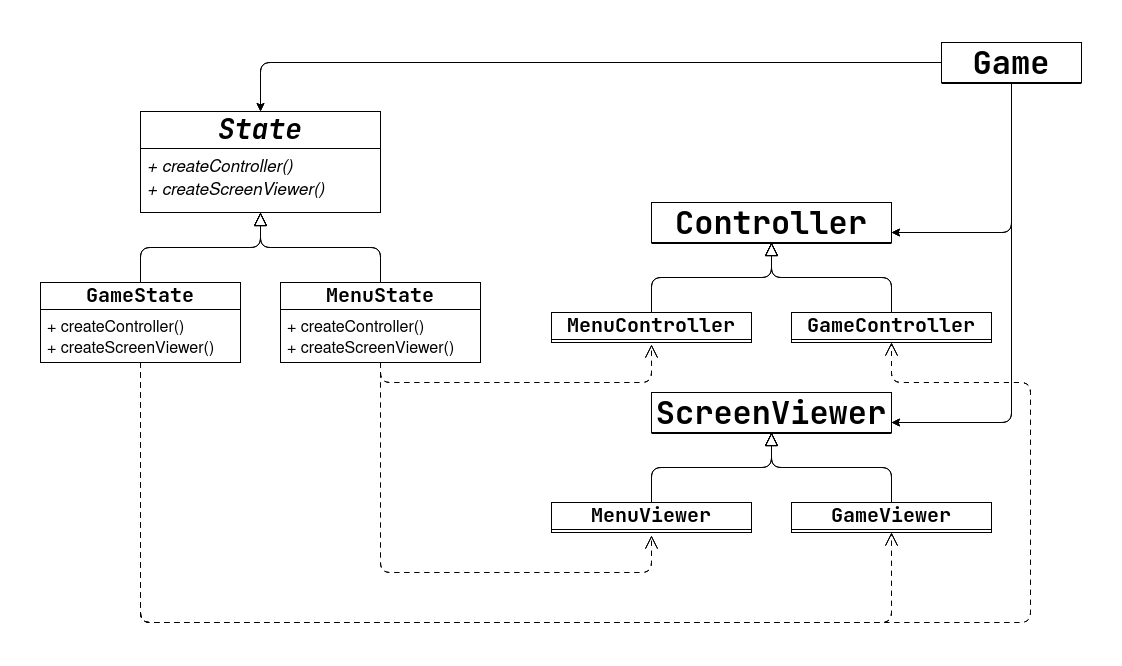
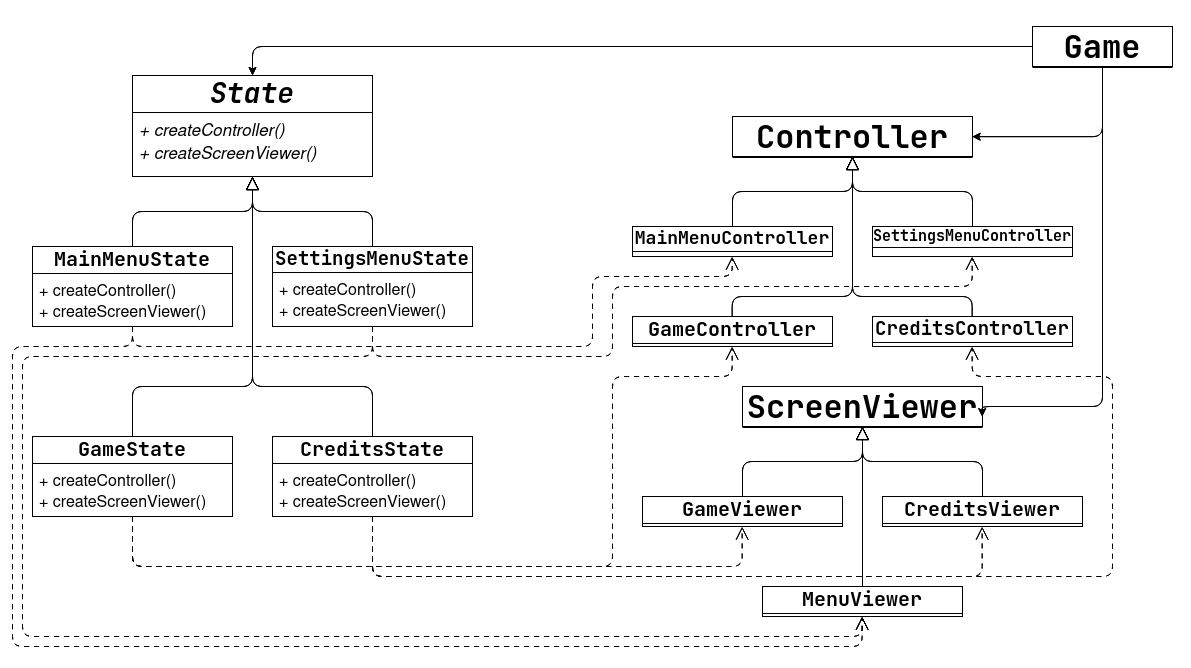
Updating the report

diff --git a/docs/README.md b/docs/README.md
@@ -6,7 +6,7 @@
 <img src="resources/mockups/logo.png"/>
 </p>
 
-2D platformer game where the main character tries to explore a futuristic world full of obstacles. There are multiple consecutive "levels" that blend through progressive scenery changes.
+Timeless Odyssey is a 2D platformer game where the main character tries to explore a futuristic world full of obstacles through the use of jumping and dashing mechanics, while also collecting stars to increase the score in search for a potential treasure. There are multiple consecutive "levels" with varying difficulty that blend through progressive scenery changes.
 
 ><p align="center">
 >This project was developed by Bruno Oliveira (up202208700@fe.up.pt), João Mendes (up202208783@fe.up.pt) and Rodrigo Coelho (up202205188@fe.up.pt) for LDTS 2023/24
@@ -14,31 +14,52 @@
 
 ## Table of Contents
 
+- [Controls](#controls)
 - [Implemented Features](#implemented-features)
-- [Planned Features](#planned-features)
+- [Notes About Features](#notes-about-features)
 - [General Structure](#general-structure)
 - [Code Design](#design)
+  - [Model-View-Controller](#code-structure)
+  - [Game Loop](#game-loop)
+  - [(Game) State Pattern](#multiple-game-states)
+  - [Abstract Factory Pattern](#the-behavior-of-the-game-states)
+  - [Adapter Pattern](#simplification-of-lanternas-interface)
+  - [(Player) State Pattern](#player-states)
+  - [Flyweight Pattern](#sprite-loading)
+- [Code Smells](#known-code-smells)
 - [Code Testing](#testing)
+
+## CONTROLS
+
+`>`: Moves the player to the right.
+
+`<`: Moves the player to the left.
+
+`SPACE`: Makes the player jump.
+
+`X`: Makes the player dash.
+
+`ESC`: Press ESC to quit or return to the main menu.
+
+`ENTER`: Press ENTER to select the desired options in the menu.
 
 ## IMPLEMENTED FEATURES
 
-- **Main Menu screen** - simple menu screen when launching the game, allowing for start, exit and a future settings option.
+- **Main Menu Screen** - simple menu screen when launching the game, which allows the user to choose between starting the game, accessing the settings or exiting the application.
 - **Screen Resizer** - at the start of the game, the code reads the user's screen size and extends the game to that resolution. The resolution can also be manually adjusted in the settings.
-- **Basic Level Loader** - class to load levels of written text files with specific characters. This will be used to generate the different scenes/levels and allows for simple layout editions.
-- **Sprite Image Loader** - a class that loads PNG images into the game and can then represent them pixel by pixel. This will be used for the player, tiles and possibly other things in the program.
-- **Player movement**
-    - **Better walking** - The player can move at variable speeds, and its movement is 
-    - **Dashing** - ability to use a speed to the sides (and possibly other directions).
-    - **Jump** - better jump
+- **Basic Level Loader** - class to load levels of written text files with specific characters, allowing to generate tiles and other elements for the different scenes/levels and allows for simple layout editions.
+- **Sprite Image Loader** - a class that loads PNG images into the game and can then represent them pixel by pixel on the screen, using Lanterna. This will be used for the player, tiles and possibly other things in the program.
+- **Player Movement** - the player can move (using the arrow keys) at variable speeds, jump (Space bar) and even use a dash (X button) once to the side it's currently facing, gaining an impressive speed boost, but it can only successfully dash once before hitting the ground. Also, the player's movement animations change according to the player's current action and speed.
+- **Collectible System** - throughout the levels, the player can find stars, which it should collect to get a better score at the end of the game.
+- **Death Condition** - when the player touches one of the spikes, it dies and, after a short animation, returns to the beginning of the current level.
+- **Particle System** - the particles give a nice aesthetic experience and movement to the gameplay. Currently, we have snow particles that appear in the foreground of all levels, as well as particles that make the player's death animation.
+- **Credits** - when finishing the game, the user receives a nice screen, where it can visualize the number of stars collected, the number of deaths and the total time of gameplay. Once done, the user can return to the main menu using the Escape button.
 
-## PLANNED FEATURES
+## NOTES ABOUT FEATURES
 
-- **Multiple Levels/Scenes** - consecutive scenes that will blend, similar to different levels but connected.
-- **Smoother Movement**    
-    - **Better walking** - better walking movement with animation, walking at variable speeds.
-    - **Dashing** - ability to use a speed to the sides (and possibly other directions).
-    - **Jump** - better jump control with variable heights, coyote time (jump timer at the end of platforms) and ledge adjustments (allows jumping around a ledge when only a few pixels are left).
-    - **Wall Crawl** - the ability to hang on and slowly fall from walls.
+Initially, we aimed to improve the player's movement even further with the addition of other mechanics and gimmicks to make the gameplay feel smoother, namely, variable height jumping, coyote time (ability to jump a few pixels after leaving the platform), ledge adjustments (jumping around ledge when only some adjustments are needed) and even wall crawling.  
+
+However, as we progressed through the development of the game and as time passed, we ended up abandoning those ideas in favor of others. As a result, some of the initial "planned features" ended up being discarded and we have no plans of implementing them in the future as we're very satisfied with the result of our efforts.
 
 ## GENERAL STRUCTURE
 <p align="center">
@@ -66,11 +87,11 @@ We have made some changes and tweaks after that initial plan, but since we appli
 
 #### Implementation
 
-The implementation of this model can be seen by checking the folders inside the source code of our game (the links refer to the items regarding the main menu): 
+The implementation of this model can be seen by checking the folders inside the source code of our game (the links refer to the items regarding the main menu):
 
-- [Model](/src/main/java/timelessodyssey/model/menu/Menu.java)
+- [Model](/src/main/java/timelessodyssey/model/menu/MainMenu.java)
 - [View](/src/main/java/timelessodyssey/view/screens/MenuViewer.java)
-- [Controller](/src/main/java/timelessodyssey/control/menu/MenuController.java)
+- [Controller](/src/main/java/timelessodyssey/control/menu/MainMenuController.java)
 
 An explanation is also provided in the following diagram:
 
@@ -98,18 +119,18 @@ This way, our game will run continuously and smoothly across users of different 
 
 #### Implementation
 
-The correspondent implementation of this pattern in our project can be found in the start method of our [main class and application entry point (Game)](/src/main/java/timelessodyssey/Game.java)
-
-#### Consequences
-
-Using the game loop pattern we have all the consequences that we mentioned before such as a smooth and similar gaming experience across a variety of user systems and the ability to easily control the speed of execution of our code.  
-On the other hand, some linters may flag the command to make the main thread sleep as a bad practice since it is used inside a loop and relies on busy waiting. However, this is considered normal and is expected to happen when running a game.
+The correspondent implementation of this pattern in our project can be found in the start method of our [main class and application entry point (Game)](/src/main/java/timelessodyssey/Game.java).
 
 An explanation is also provided in the following diagram:
 
 <p align="center">
   <img src="resources/uml/class/game-loop.png"/>
 </p>
+
+#### Consequences
+
+Using the game loop pattern we have all the consequences that we mentioned before such as a smooth and similar gaming experience across a variety of user systems and the ability to easily control the speed of execution of our code.  
+On the other hand, some linters may flag the command to make the main thread sleep as a bad practice since it is used inside a loop and relies on busy waiting. However, this is considered normal and is expected to happen when running a game.
 
 ### Multiple Game States
 
@@ -129,12 +150,18 @@ This way, it's easy to isolate each of the applications's screens and later add 
 
 #### Implementation
 
-On the source code, this pattern can be found mainly associated with the [Game](/src/main/java/timelessodyssey/Game.java) Class, but its implementation is on the whole states directory containing the [State](/src/main/java/timelessodyssey/states/State.java), [MenuState](/src/main/java/timelessodyssey/states/MenuState.java) and [GameState](/src/main/java/timelessodyssey/states/GameState.java) classes.
+On the source code, this pattern can be found mainly associated with the [Game](/src/main/java/timelessodyssey/Game.java) Class, but its implementation is on the whole timelessodyssey.states directory which contains the general [State](/src/main/java/timelessodyssey/states/State.java), [MainMenuState](/src/main/java/timelessodyssey/states/MainMenuState.java), [SettingsMenuState](/src/main/java/timelessodyssey/states/SettingsMenuState.java),  [GameState](/src/main/java/timelessodyssey/states/GameState.java) and [CreditsState](/src/main/java/timelessodyssey/states/CreditsState.java) classes.
 
 Here is also a diagram representation of the pattern:
 
 <p align="center">
-  <img src="resources/uml/class/state.png">
+  <img src="resources/uml/class/gstate.png">
+</p>
+
+As well as the state diagram depicting how the state transitions proceed during the game:
+
+<p align="center">
+  <img src="resources/uml/state/game.png">
 </p>
 
 #### Consequences
@@ -159,7 +186,7 @@ The **Abstract Factory** allows creating families of related objects, without sp
 
 #### Implementation
 
-In our specific case, this translates to having an [abstract State class](/src/main/java/timelessodyssey/states/State.java) using a generic model and different concrete classes ([MenuState](/src/main/java/timelessodyssey/states/MenuState.java) or [GameState](/src/main/java/timelessodyssey/states/MenuState.java)) that extend it and specify a model (Menu in the first case and Scene in the second).
+In our specific case, this translates to having an [abstract State class](/src/main/java/timelessodyssey/states/State.java) using a generic model and different concrete classes [MainMenuState](/src/main/java/timelessodyssey/states/MainMenuState.java), [SettingsMenuState](/src/main/java/timelessodyssey/states/SettingsMenuState.java),  [GameState](/src/main/java/timelessodyssey/states/GameState.java) and [CreditsState](/src/main/java/timelessodyssey/states/CreditsState.java) that extend it and specify a model ([MainMenu](/src/main/java/timelessodyssey/model/menu/MainMenu.java), [SettingsMenu](/src/main/java/timelessodyssey/model/menu/SettingsMenu.java), [Scene](/src/main/java/timelessodyssey/model/game/scene/Scene.java) and [Credits](/src/main/java/timelessodyssey/model/credits/Credits.java) respectively).
 
 Here is a diagram representation of the pattern:
 
@@ -184,14 +211,7 @@ We decided to use the pattern **Adapter** pattern. This pattern consists of crea
 
 #### Implementation  
 
-The example implementation mentioned can be found in the following classes inside the GUI directory: the general [GUI class](/src/test/java/timelessodyssey/gui/GUI.java) and the specific [Lanterna class](/src/test/java/timelessodyssey/gui/LanternaGUI.java).  
-
-A diagram depicting the idea behind this pattern can also be found here:
-
-
-#### Consequences
-
-The use of the Adapter Pattern allows our classes to not worry about the execution of certain operations with Lanterna, respecting the Single Responsibility Principle. It also increases the modularity of the code, allowing for easier changes down the line.
+The example implementation mentioned can be found in the following classes inside the GUI directory: the general [GUI class](/src/main/java/timelessodyssey/gui/GUI.java) and the specific [Lanterna class](/src/main/java/timelessodyssey/gui/LanternaGUI.java).  
 
 An explanation is also provided in the following diagram:
 
@@ -199,17 +219,92 @@ An explanation is also provided in the following diagram:
   <img src="resources/uml/class/adapter.png"/>
 </p>
 
+#### Consequences
+
+The use of the Adapter Pattern allows our classes to not worry about the execution of certain operations with Lanterna, respecting the Single Responsibility Principle. It also increases the modularity of the code, allowing for easier changes down the line.
+
+### Player States
+
+#### Problem in Context
+
+While implementing the player's movement, we wanted to restrict its movement while it's performing certain actions. For example, the player should not be able to jump right after jumping, it should not dash right after dashing, etc. Also, determining in what state the player is is useful for its respective animations.
+Initially, we had the player's state stored in a lot of **flags** inside of the Player class, which not only was confusing to understand from those flags what exactly the player was doing but also made the code that updated the player's movement very long and messy. It also didn't favor the Open/Closed Principle very well, as we faced that slight alterations to one part of the movement impacted others in unpredictable ways.
+
+#### The Pattern
+
+For this problem, we recurred to the **State** Pattern once again. As stated before, this pattern suggests creating an abstract class for the player state and implementing each one of the concrete states as their own subclass, with their own implementation of the needed player's actions and state transitions.
+
+#### Implementation
+
+The implementation of this pattern can be found in the [abstract class PlayerState](/src/main/java/timelessodyssey/model/game/elements/player/PlayerState.java), as well as its subclasses: [IdleState](/src/main/java/timelessodyssey/model/game/elements/player/IdleState.java), [WalkingState](/src/main/java/timelessodyssey/model/game/elements/player/WalkingState.java), [RunningState](/src/main/java/timelessodyssey/model/game/elements/player/RunningState.java), [JumpingState](/src/main/java/timelessodyssey/model/game/elements/player/JumpingState.java), [FallingState](/src/main/java/timelessodyssey/model/game/elements/player/FallingState.java), [DashingState](/src/main/java/timelessodyssey/model/game/elements/player/DashingState.java), [AfterDashState](/src/main/java/timelessodyssey/model/game/elements/player/AfterDashState.java) and [DeadState](/src/main/java/timelessodyssey/model/game/elements/player/DeadState.java). 
+
+This way, the player redirects the logic of movement to the state, and the state deals with the movement's actualization, with methods such as `movePlayerLeft()` and `jump()`.
+
+A UML diagram describing the pattern implementation can be found below:
+
+<p align="center">
+  <img src="resources/uml/class/pstate.png"/>
+</p>
+
+A state diagram highlighting how the state transitions proceed during gameplay can also be found here:
+
+<p align="center">
+  <img src="resources/uml/state/player.png"/>
+</p>
+
+#### Consequences
+
+With this pattern, all the phases of the player's movement became well segregated and intuitively identified, as well as more securely defined than with the flag fields. Also, the transitions between each state become much clearer and, if we were to add more states in the future, it would be as easy as to add another subclass, removing the necessity to potentially alter the behavior of other states to add another. It also allows for more flexible player movement, by allowing to make specific conditions for specific states.
+
+### Sprite Loading
+
+#### Problem in Context
+
+Each Sprite object holds a bitmap image. Although the images used throughout the game are very light, using a sprite for each element, like the tiles, can lead to unnecessary memory overhead.
+The unification of the access to sprite objects would also be beneficial for mocking in unit testing.
+
+#### The Pattern
+
+For the Sprite Loader, we used the **Flyweight** Pattern. This pattern lets us use more objects with the available amount of RAM by sharing parts of the object between multiple objects instead of having them keep the same data.
+
+#### Implementation
+
+The implementation of this pattern can be seen in the [SpriteLoader class](/src/main/java/timelessodyssey/view/SpriteLoader.java), as well as [LogoViewer](/src/main/java/timelessodyssey/view/menu/LogoViewer.java) and all subclasses of [ElementViewer](/src/main/java/timelessodyssey/view/elements/ElementViewer.java). The SpriteLoader has a map with all the [Sprite](/src/main/java/timelessodyssey/view/Sprite.java) objects needed by the application, and each viewer can access the wanted sprite using the sprite's filepath. 
+
+A UML diagram with the structure of the implementation can be found here:
+
+<p align="center">
+  <img src="resources/uml/class/flyweight.png"/>
+</p>
+
+#### Consequences
+
+This pattern allowed us to save some memory space and uniformize the sprite loading throughout the application, as well as facilitate unit testing, as the SpriteLoader can be used as a conduit for dependency injection.
+
 ## KNOWN CODE SMELLS
 
-Since we have been using Google's Error Prone plugin and good code practices, we don't have any known code smells to note.  
-Although we hope this continues, the number of code smells may change as we scrutinize our code further or as we keep implementing more features.
+### Switch Statements
 
-[Entry](/src/main/java/timelessodyssey/model/menu/Entry.java), [EntryViewer](/src/main/java/timelessodyssey/view/menu/EntryViewer.java), [EntryController](/src/main/java/timelessodyssey/control/menu/EntryController.java) => Switch statements
+As of now, the menu entries ([Entry](/src/main/java/timelessodyssey/model/menu/Entry.java)) are each one of many entry types, defined in a enum, which the [EntryViewer](/src/main/java/timelessodyssey/view/menu/EntryViewer.java) and the [EntryController](/src/main/java/timelessodyssey/control/menu/EntryController.java) check to determine their visualization and behavior, respectively, through somewhat long **switch statements**. We tried to solve this problem with a **Command** Pattern, where each type of entry would implement how it should be visualized and how it would react. However, because the entry types are stored in the Model, this would violate the **Model-View-Controller** Pattern, so the switch statements were our best option.
+
+We also used switch statements for handling the commands in our Controller, however each case did only basic calls, so it is not a big issue.
+
+### Refused bequest
+
+In our player states, some states (especially [DeadState](/src/main/java/timelessodyssey/model/game/elements/player/DeadState.java)) do not exactly implement the movement functions requested by the base class ([PlayerState](/src/main/java/timelessodyssey/model/game/elements/player/PlayerState.java)). For example, [JumpingState](/src/main/java/timelessodyssey/model/game/elements/player/JumpingState.java) does not alter the player movement with the `jump()` method, as the player should not jump right after the jump. This can be seen as a violation of the Liskov Substitution Principle, as the player cannot jump after jumping, but the way we think the methods should be seen is how the player should have their movement updated after the user tries to do certain actions (in this case, if the player is not on the ground, all jumping tries should fail). This could be fixed by getting rid of the **State** Pattern applied, but we would end up with all the problems [mentioned before](#player-states), so we though this would be the better choice.
+
+### Duplicate code
+
+In the player states, the code for the state transitions (in the `getNextState()` method) looks very similar for most of the states. We tried to extract the identical code to methods as much as possible, but extracting more would lead to less legible and intuitive code. We could fix by creating additional base state classes which implement some of the methods, but this would not exactly solve the problem, as each state transition function is different from the other, and it would clutter the State Pattern implementation. 
+
+### Data class
+
+Outside of some minor functions of the model, like the [Vector](/src/main/java/timelessodyssey/model/Vector.java) class, we created the class [ViewerProvider](/src/main/java/timelessodyssey/view/ViewerProvider.java) to ease mocking the Viewer classes in our unit testing, while avoiding the Long Parameter List code smell int respective constructors. However, the ViewerProvider does not use any of its field, it only providing to the other classes.
 
 ## TESTING
 
-- **[Unit Testing](/src/test/java/timelessodyssey/model/PositionTest.java)** for the testable sections of our code (Model, View, Controller, States, GUI, Sound) 
-- **[Mocks](/src/test/java/timelessodyssey/states/StateTest.java)** have been used in conjunction with Unit Tests
+- **[Unit Testing](/src/test/java/timelessodyssey/model/game/scene/SceneTest.java)** for the testable sections of our code (Model, View, Controller, States, GUI, Sound) 
+- **[Mocks](/src/test/java/timelessodyssey/states/MainMenuStateTest.java)** have been used in conjunction with Unit Tests
 - **[Coverage Testing](/docs/resources/tests/coverage.png)** using JaCoCo 
   - Instruction Coverage ≈ 97%
   - Branch Coverage ≈ 98%
@@ -224,8 +319,9 @@ Although we hope this continues, the number of code smells may change as we scru
     <img src="resources/tests/mutation.png"/>
   </p>
 
-## SELF-EVALUATION
+Note: we couldn't achieve more instruction and branch coverage using JaCoCo because our switch-statements based on enums don't have a default option. Due to this, JaCoCo considers that some branches or instructions are not tested, therefore the result shown in the report is not 100%
 
+## SELF-EVALUATION
     - Bruno Oliveira: 33.33%
     - João Mendes: 33.33%
     - Rodrigo Coelho: 33.33%

diff --git a/README.md b/README.md
@@ -1,26 +1,29 @@
-# LDTS_L01G07 - Timeless Odyssey
+<h1 align="center">
+  LDTS_L01G07 - Timeless Odyssey
+</h1>
 
-2D platformer game where the main character tries to explore a futuristic world full of obstacles. There are multiple consecutive "levels" that blend through progressive scenery changes.
+<p align="center">
+<img src="./docs/resources/mockups/logo.png"/>
+</p>
+
+Timeless Odyssey is a 2D platformer game where the main character tries to explore a futuristic world full of obstacles through the use of jumping and dashing mechanics, while also collecting stars to increase the score in search for a potential treasure. There are multiple consecutive "levels" with varying difficulty that blend through progressive scenery changes.
 
 ><p align="center">
 >This project was developed by Bruno Oliveira (up202208700@fe.up.pt), João Mendes (up202208783@fe.up.pt) and Rodrigo Coelho (up202205188@fe.up.pt) for LDTS 2023/24
 ></p>
 
-### IMPLEMENTED FEATURES
+## IMPLEMENTED FEATURES
 
-- **Main Menu screen** - simple menu screen when launching the game, allowing for start, exit and a future settings option
-- **Screen Resizer** - at the start of the game, the code reads the user's screen size and extends the game to that resolution
-- **Basic Level Loader** - class to load levels of written text files with specific characters. This will be used to generate the different scenes/levels and allows for simple layout editions
-- **Sprite Image Loader** - a class that loads PNG images into the game and can then represent them pixel by pixel. This will be used for the player, tiles and possibly other things in the program
+- **Main Menu Screen** - simple menu screen when launching the game, which allows the user to choose between starting the game, accessing the settings or exiting the application.
+- **Screen Resizer** - at the start of the game, the code reads the user's screen size and extends the game to that resolution. The resolution can also be manually adjusted in the settings.
+- **Basic Level Loader** - class to load levels of written text files with specific characters, allowing to generate tiles and other elements for the different scenes/levels and allows for simple layout editions.
+- **Sprite Image Loader** - a class that loads PNG images into the game and can then represent them pixel by pixel on the screen, using Lanterna. This will be used for the player, tiles and possibly other things in the program.
+- **Player Movement** - the player can move (using the arrow keys) at variable speeds, jump (Space bar) and even use a dash (X button) once to the side it's currently facing, gaining an impressive speed boost, but it can only successfully dash once before hitting the ground. Also, the player's movement animations change according to the player's current action and speed.
+- **Collectible System** - throughout the levels, the player can find stars, which it should collect to get a better score at the end of the game.
+- **Death Condition** - when the player touches one of the spikes, it dies and, after a short animation, returns to the beginning of the current level.
+- **Particle System** - the particles give a nice aesthetic experience and movement to the gameplay. Currently, we have snow particles that appear in the foreground of all levels, as well as particles that make the player's death animation.
+- **Credits** - when finishing the game, the user receives a nice screen, where it can visualize the number of stars collected, the number of deaths and the total time of gameplay. Once done, the user can return to the main menu using the Escape button.
 
-### PLANNED FEATURES
-
-- **Multiple Levels/Scenes** - consecutive scenes that will blend, similar to different levels but connected
-- **Smoother Movement**    
-    - **Better walking** - better walking movement with animation, walking at variable speeds
-    - **Dashing** - ability to use a speed to the sides (and possibly other directions)
-    - **Jump** - better jump control with variable heights, coyote time (jump timer at the end of platforms) and  ledge adjustments (allows jumping around a ledge when only a few pixels are left)
-    - **Wall Crawl** - the ability to hang on and slowly fall from walls
 
 ### GAME SCREENSHOTS AND MOCKUPS
 
@@ -37,25 +40,38 @@
 [comment]: <> (Menu Design)
 
 <h4 style="text-align: center;">
-  Initial Menu Design
+  Menu Design
 </h4>
 
 <p align="center">
-  <img src="docs/resources/screenshots/menu.png"/>
+  <img src="docs/resources/screenshots/timeless_odyssey_menu.png"/>
 </p>
 
-[comment]: <> (Level Mockup)
+[comment]: <> (Level Showcase)
 
 <h4 style="text-align: center;">
-  Level Mockup
+  Level and Gameplay Showcase
 </h4>
 
 <p align="center">
-  <img src="docs/resources/screenshots/map.png">
+  <img src="docs/resources/screenshots/level_showcase_1.gif">
+  <img src="docs/resources/screenshots/level_showcase_2.gif">
 </p>
 
+[comment]: <> (Credits Screen)
+
 <h3 style="text-align: center;">
-  General Structure
+  Closing Credits
+</h3>
+
+<p align="center">
+  <img src="docs/resources/screenshots/timeless_odyssey_credits.png"/>
+</p>
+
+[comment]: <> (General UML Structure)
+
+<h3 style="text-align: center;">
+  UML Class Structure Overview
 </h3>
 
 <p align="center">
